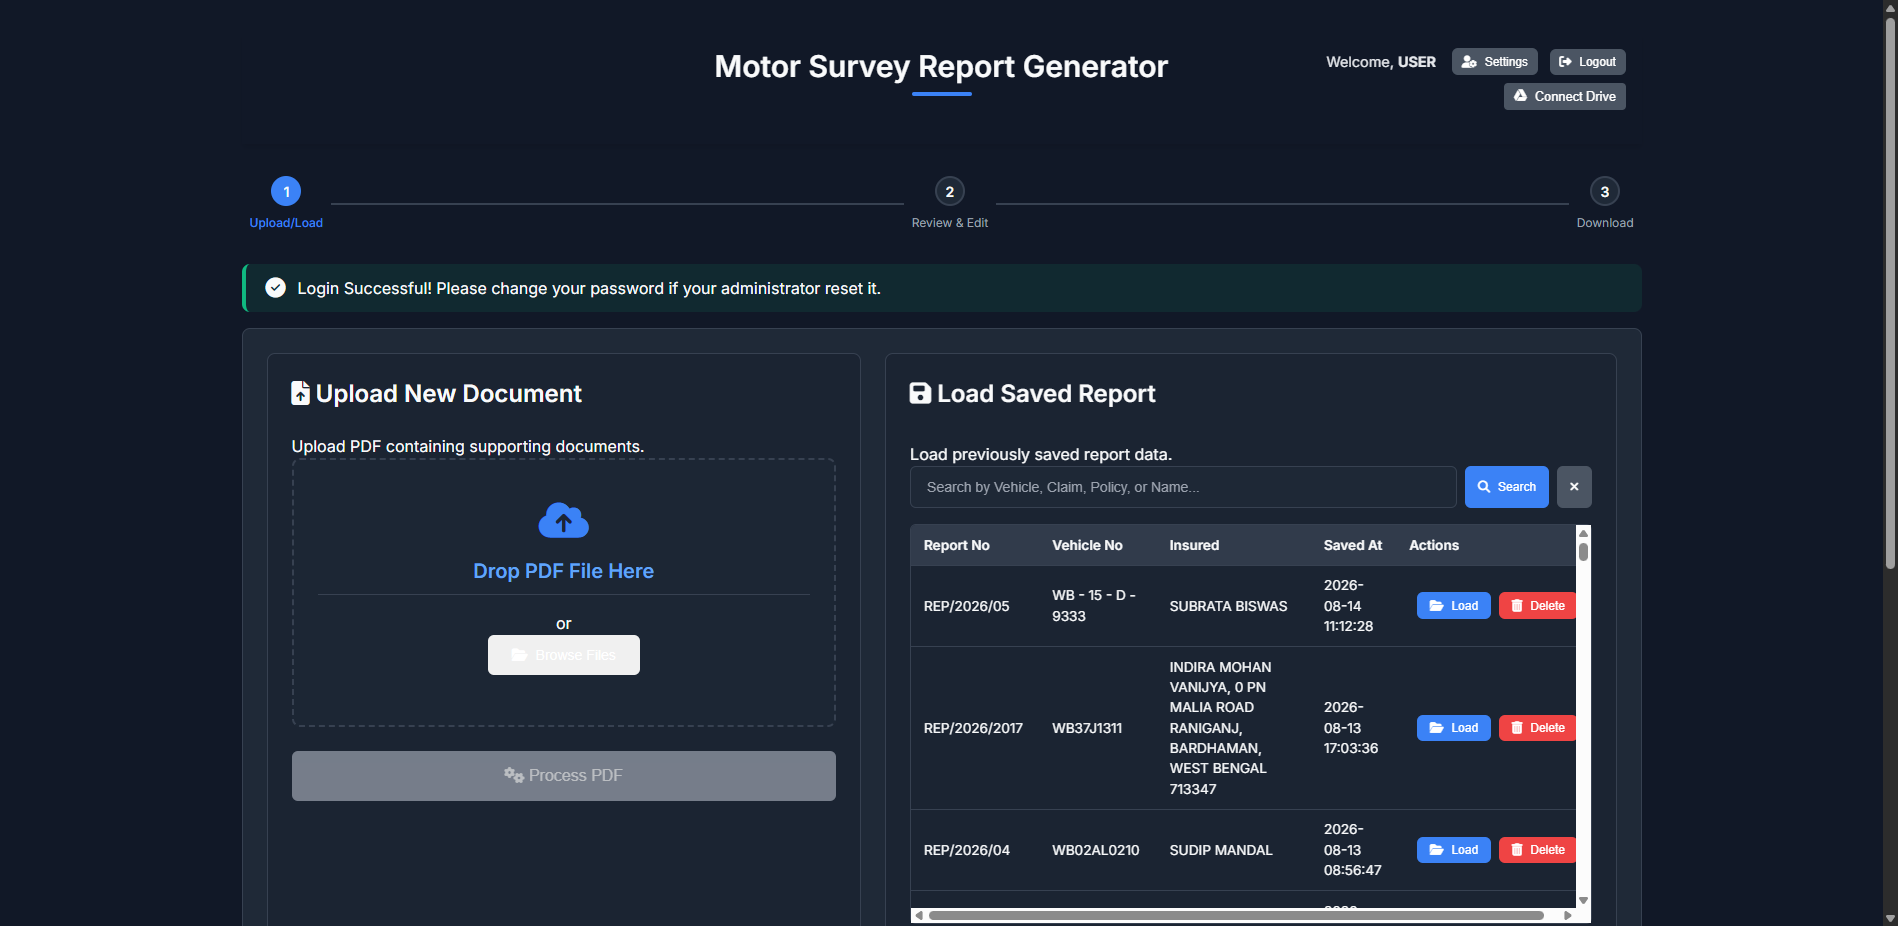
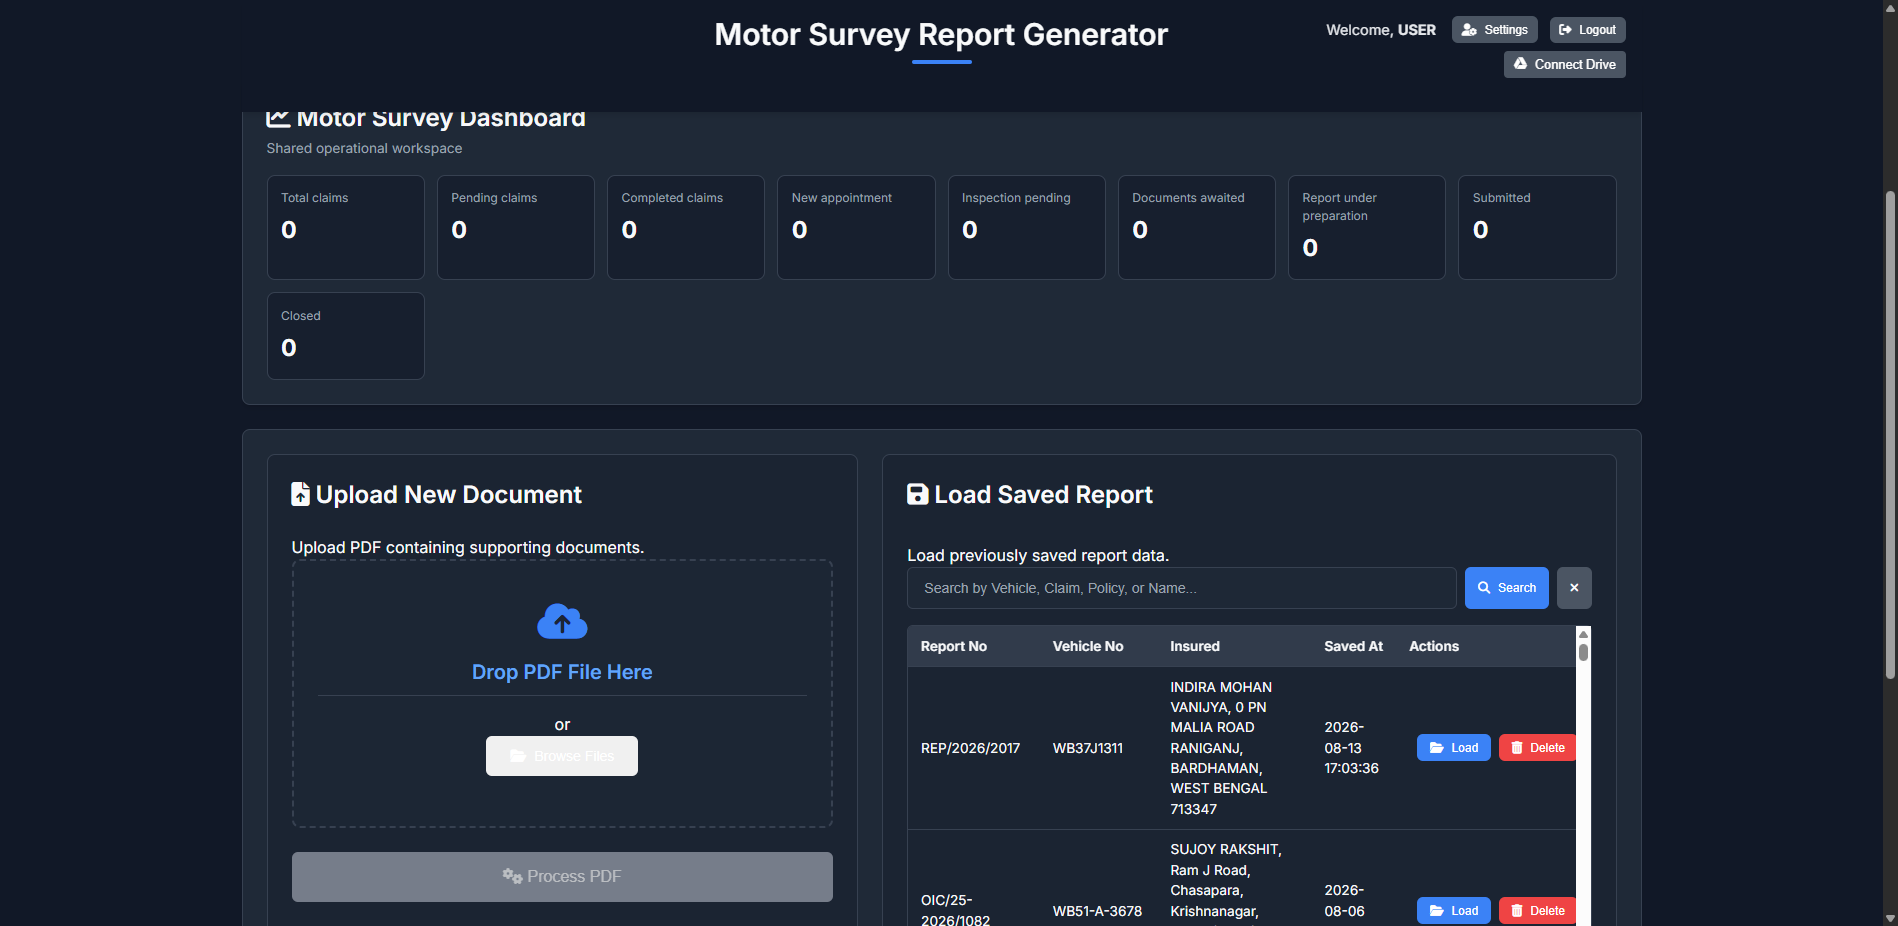
docs: add verified production evidence screenshots and sync memory logs

diff --git a/.agents/memory/MEMORY_LOGS.md b/.agents/memory/MEMORY_LOGS.md
@@ -1,5 +1,5 @@
 # AGENT MEMORY DASHBOARD
-*Last Synchronized: 2026-08-14T15:40:48.680367*
+*Last Synchronized: 2026-08-15T18:52:54.858362*
 
 ## ACTIVE ARCHITECTURAL CONSTRAINTS
 - **[CRITICAL]** (MUST_FOLLOW): All operational claim records must be strictly workspace-scoped (workspace_admin_id). Financial fee data must be redacted from employee API responses and employee save operations must never overwrite financial records.
